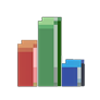
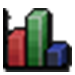
Added HWID to mongo authentication process | Fucked up stats gui img

diff --git a/Database/Connection.py b/Database/Connection.py
@@ -1,5 +1,6 @@
 import pymongo
 import bcrypt
+from Database.Hwid import get_hwid
 
 
 client = pymongo.MongoClient("mongodb+srv://admin:karsen1212@cluster0.te0zc.mongodb.net/?retryWrites=true&w=majority")
@@ -27,12 +28,34 @@ def get_user(email, password):
     print(f'user_data: {user_data.get("email")}')
 
     encoded_user_pass = user_data.get("password").encode('utf8')
+    # Get HWID of curr user
+    user_hwid = user_data.get("hwid")
+
+    print(f'Fetched users HWID: {user_hwid}')
 
     is_pass_matching = bcrypt.checkpw(password.encode('utf8'), encoded_user_pass)
 
     print(f'Do passwords match? {is_pass_matching}')
 
+    # If the password is matching...
     if is_pass_matching:
-        return True
+        # But, if the curr user doesn't have HWID in their user doc...
+        curr_hwid = get_hwid()
+
+        if not user_hwid:
+            # Save current HWID to their user doc
+            print(f'No HWID found for current user... Saving HWID: {curr_hwid} to user with email: {email}')
+            update_query = { "$set": { "hwid": curr_hwid}}
+            user_collection.update_one(user_query, update_query)
+            return True
+        else:
+            # Otherwise, the user DOES have HWID associated with their account - check if it's the same as current hwid
+            if user_hwid == curr_hwid:
+                print(f'✅ user_hwid matches curr_hwid')
+                return True
+            else:
+                print(f'⛔ user_hwid does NOT match curr_hwid - Only one system is registered to use this application.')
+                return False
+
     else:
         return False

diff --git a/Main.py b/Main.py
@@ -1,4 +1,5 @@
 from GUI.Main_GUI import *
+from GUI.Auth_GUI import *
 from API.Imaging.Image import *
 # not_exit = True
 
@@ -8,7 +9,9 @@ def __main__() -> int:
     get_bluestacks_xy()
     set_bluestacks_window_size()
     capture_bluestacks()
-    show_main_gui()
+
+    # show_main_gui()
+    show_auth_gui()
 
     return 0
 

diff --git a/Database/Hwid.py b/Database/Hwid.py
@@ -1,0 +1,9 @@
+import subprocess
+import os
+
+
+def get_hwid():
+    hwid = str(subprocess.check_output('wmic csproduct get uuid'), 'utf-8').split('\n')[1].strip()
+    return hwid
+
+# print(f'Get id: {get_hwid()}')
